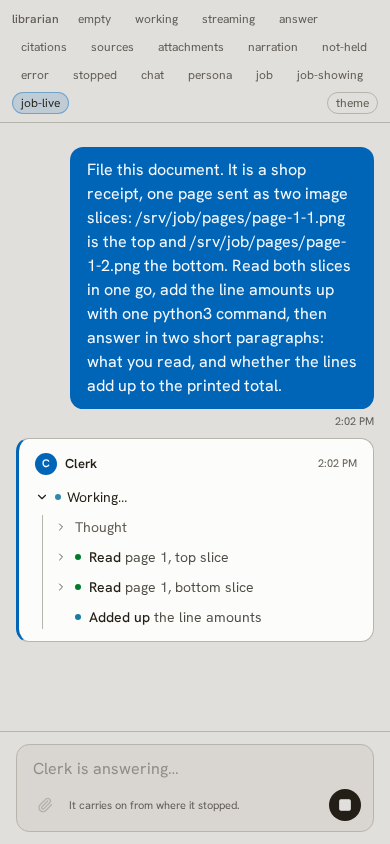
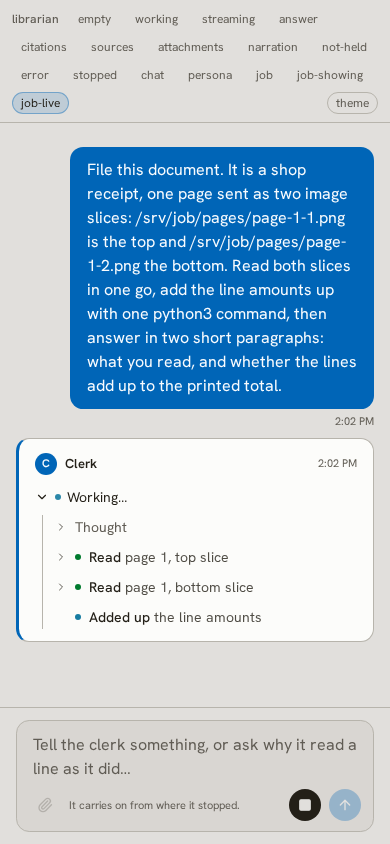
feat(librarian): a composer that takes a message while the session works; release 2026.9.20
Asked for by godswood (radar-hooves/godswood#839): the operator messages a
running job as well as stopping it, and the factory's message route writes a
message sent mid-run onto the running process.

- Composer's sendWhileRunning keeps the box open while running, with Send
  beside Stop, by button or Enter. Words only: the paperclip waits for the
  run. A chat without it waits for its answer, as before.
- Focus returns to the box only if it had been disabled, so a box that
  stayed open never pulls the reader back when a run finishes.
- The lab's job-live opts in; the grid asserts the box is open mid-run,
  sending clears it, and Stop stays.

diff --git a/packages/librarian/src/lib/components/composer/composer.svelte b/packages/librarian/src/lib/components/composer/composer.svelte
@@ -7,8 +7,10 @@
   chrome grows with the text and nothing else moves.
 
   While Milton is answering the box is disabled and the send button becomes a
-  stop button. Queuing the next message is not built, and a box that takes
-  typing it will then discard is worse than one that plainly waits.
+  stop button: an ask route takes one question per request, and a box that
+  takes typing it will then discard is worse than one that plainly waits. A
+  host whose session reads messages while it works (`sendWhileRunning`) keeps
+  the box open, with Send beside Stop.
 -->
 <script lang="ts">
 	import ArrowUpIcon from '@lucide/svelte/icons/arrow-up';
@@ -52,6 +54,11 @@
 		name?: string;
 		/** Overrides for the package's own words. */
 		copy?: Partial<LibrarianCopy>;
+		/** The session reads a message sent while it works — a job whose
+		 *  route writes it onto the running process — so the box stays open
+		 *  and Send sits beside Stop. Words only: the paperclip still waits for
+		 *  the run. Absent, a chat waits for its answer. */
+		sendWhileRunning?: boolean;
 		/** One quiet line in the box's footer, where a scope choice would
 		 *  sit, in the host's words: what sending does here ("It carries on
 		 *  from where it stopped."). */
@@ -72,8 +79,12 @@
 		onbriefing,
 		name = DEFAULT_PERSONA,
 		copy,
-		note
+		note,
+		sendWhileRunning = false
 	}: Props = $props();
+
+	/** Nothing can be said right now: a chat whose answer is still coming. */
+	const waiting = $derived(running && !sendWhileRunning);
 
 	const words = $derived(resolveCopy(copy, name));
 
@@ -124,21 +135,23 @@
 	});
 
 	// Focus comes back once Milton is done, so a reader can keep going without
-	// reaching for the mouse. It has to be the transition OUT of `running`: a
+	// reaching for the mouse. It has to be the transition OUT of `waiting`: a
 	// disabled element cannot hold focus, so the focus call in `submit()` below
-	// survives only for a host that never sets `running` — measured, focus lands
-	// on `body` the frame the box disables and comes back here.
+	// survives only for a box that never disables — measured, focus lands on
+	// `body` the frame the box disables and comes back here. A box that stayed
+	// open never lost focus, so it takes none back from wherever the reader
+	// went while the run worked.
 	//
 	// Plain, not `$state`: read and written in the same effect, which would
 	// otherwise re-trigger itself forever.
-	let wasRunning = false;
+	let wasWaiting = false;
 	$effect(() => {
-		if (wasRunning && !running) textarea?.focus();
-		wasRunning = running;
+		if (wasWaiting && !waiting) textarea?.focus();
+		wasWaiting = waiting;
 	});
 
 	function submit() {
-		if (!value.trim() || running) return;
+		if (!value.trim() || waiting) return;
 		onsubmit();
 		textarea?.focus();
 	}
@@ -225,8 +238,8 @@
 			oninput={grow}
 			onkeydown={keydown}
 			rows="1"
-			disabled={running}
-			placeholder={running ? words.answeringPlaceholder : words.askPlaceholder}
+			disabled={waiting}
+			placeholder={waiting ? words.answeringPlaceholder : words.askPlaceholder}
 			class="ds-lib-input"
 		></textarea>
 
@@ -287,7 +300,8 @@
 				<button type="button" class="ds-lib-stop" onclick={onstop} aria-label="Stop">
 					<SquareIcon size={14} fill="currentColor" />
 				</button>
-			{:else}
+			{/if}
+			{#if !waiting}
 				<button
 					type="button"
 					class="ds-lib-send"

diff --git a/packages/librarian/src/test/composer.test.ts b/packages/librarian/src/test/composer.test.ts
@@ -5,8 +5,8 @@
  * "The whole library" as the sole entry — and a sole entry is console
  * furniture, not a control.
  */
-import { describe, it, expect } from 'vitest';
-import { render, screen } from '@testing-library/svelte';
+import { describe, it, expect, vi } from 'vitest';
+import { fireEvent, render, screen } from '@testing-library/svelte';
 import Composer from '$lib/components/composer/composer.svelte';
 
 describe('Composer scope chip', () => {
@@ -114,5 +114,44 @@ describe('Composer placeholder', () => {
 	it('says who is answering while the box is disabled', () => {
 		composer({ name: 'penny', running: true });
 		expect(screen.getByPlaceholderText('Penny is answering…')).toBeInTheDocument();
+	});
+});
+
+describe('Composer while a session works', () => {
+	function composer(props: Record<string, unknown>) {
+		const onsubmit = vi.fn();
+		const onstop = vi.fn();
+		render(Composer, {
+			props: { value: 'Skip the voided line.', running: true, onsubmit, onstop, ...props }
+		});
+		return { onsubmit, onstop };
+	}
+
+	it('waits, for a chat whose answer is still coming', () => {
+		const { onsubmit } = composer({});
+		expect(screen.getByRole('textbox')).toBeDisabled();
+		expect(screen.queryByRole('button', { name: 'Send' })).not.toBeInTheDocument();
+		expect(screen.getByRole('button', { name: 'Stop' })).toBeInTheDocument();
+		expect(onsubmit).not.toHaveBeenCalled();
+	});
+
+	it('takes a message and offers Stop beside Send, for a session that reads one', async () => {
+		const { onsubmit, onstop } = composer({ sendWhileRunning: true });
+		expect(screen.getByRole('textbox')).toBeEnabled();
+		expect(screen.getByPlaceholderText('Ask Milton…')).toBeInTheDocument();
+
+		await fireEvent.click(screen.getByRole('button', { name: 'Send' }));
+		expect(onsubmit).toHaveBeenCalledTimes(1);
+
+		await fireEvent.keyDown(screen.getByRole('textbox'), { key: 'Enter' });
+		expect(onsubmit).toHaveBeenCalledTimes(2);
+
+		await fireEvent.click(screen.getByRole('button', { name: 'Stop' }));
+		expect(onstop).toHaveBeenCalledTimes(1);
+	});
+
+	it('keeps files for after the run', () => {
+		composer({ sendWhileRunning: true });
+		expect(screen.getByRole('button', { name: 'Attach a file' })).toBeDisabled();
 	});
 });

diff --git a/packages/console/src/routes/librarian/+page.svelte b/packages/console/src/routes/librarian/+page.svelte
@@ -174,6 +174,7 @@
 						{name}
 						copy={JOB_COPY}
 						note={JOB_NOTE}
+						sendWhileRunning
 						onsubmit={send}
 						onstop={() => (running = false)}
 					/>

diff --git a/packages/librarian/README.md b/packages/librarian/README.md
@@ -228,7 +228,15 @@ again after sending a message folds only what is new.
 	oncite={(citation) => showPage(citation.document_id)}
 >
 	{#snippet composer()}
-		<Composer bind:value {running} {name} note="It carries on from where it stopped." {onsubmit} {onstop} />
+		<Composer
+			bind:value
+			{running}
+			{name}
+			sendWhileRunning
+			note="It carries on from where it stopped."
+			{onsubmit}
+			{onstop}
+		/>
 	{/snippet}
 </Conversation>
 ```
@@ -244,6 +252,7 @@ end that way.
 | An artefact            | `turn.artefact = { title, summary }` cards under the prose once the turn settles; `isAnswer: true` is an artefact that IS the prose, and replaces it                  |
 | Opening it             | `onopenartefact(turn)` and `showing` (the turn id the host shows). Without a handler, an `isAnswer` artefact opens in `ArtefactPane` and any other offers no action |
 | "Answered without a source" | `copy.notHeld: ''` for a persona that answers from no shelf                                                                                                     |
+| Saying something mid-run | `Composer`'s `sendWhileRunning`: while the session works the box stays open and Send sits beside Stop. For a route that reads a message while the run works; a chat leaves it off and waits for its answer |
 
 ### Citations
 

diff --git a/packages/librarian/CHANGELOG.md b/packages/librarian/CHANGELOG.md
@@ -2,6 +2,28 @@
 
 All notable changes to this package are documented here. Format follows [Keep a Changelog](https://keepachangelog.com/); versioning is CalVer (`YYYY.M.x`).
 
+## [2026.9.20] - 2026-09-29
+
+Saying something to a session while it works. Asked for by godswood
+(`radar-hooves/godswood#839`), whose operator messages a running job as well
+as stopping it; the factory's message route writes a message sent mid-run
+onto the running process.
+
+### Added
+
+- **`Composer`'s `sendWhileRunning`**: while `running`, the box stays open and
+  Send sits beside Stop, by button or Enter. Words only: the paperclip still
+  waits for the run. Without it a chat keeps waiting for its answer, as
+  before.
+- The lab's `job-live` takes a message mid-run, and the grid asserts the box
+  is open, sending clears it, and Stop stays.
+
+### Changed
+
+- **Focus comes back to the box only if it had been disabled.** A box that
+  stayed open while a run worked no longer pulls the reader back from
+  wherever they went when the run finishes.
+
 ## [2026.9.19] - 2026-09-29
 
 A session somebody else started, read as a conversation. Asked for by
